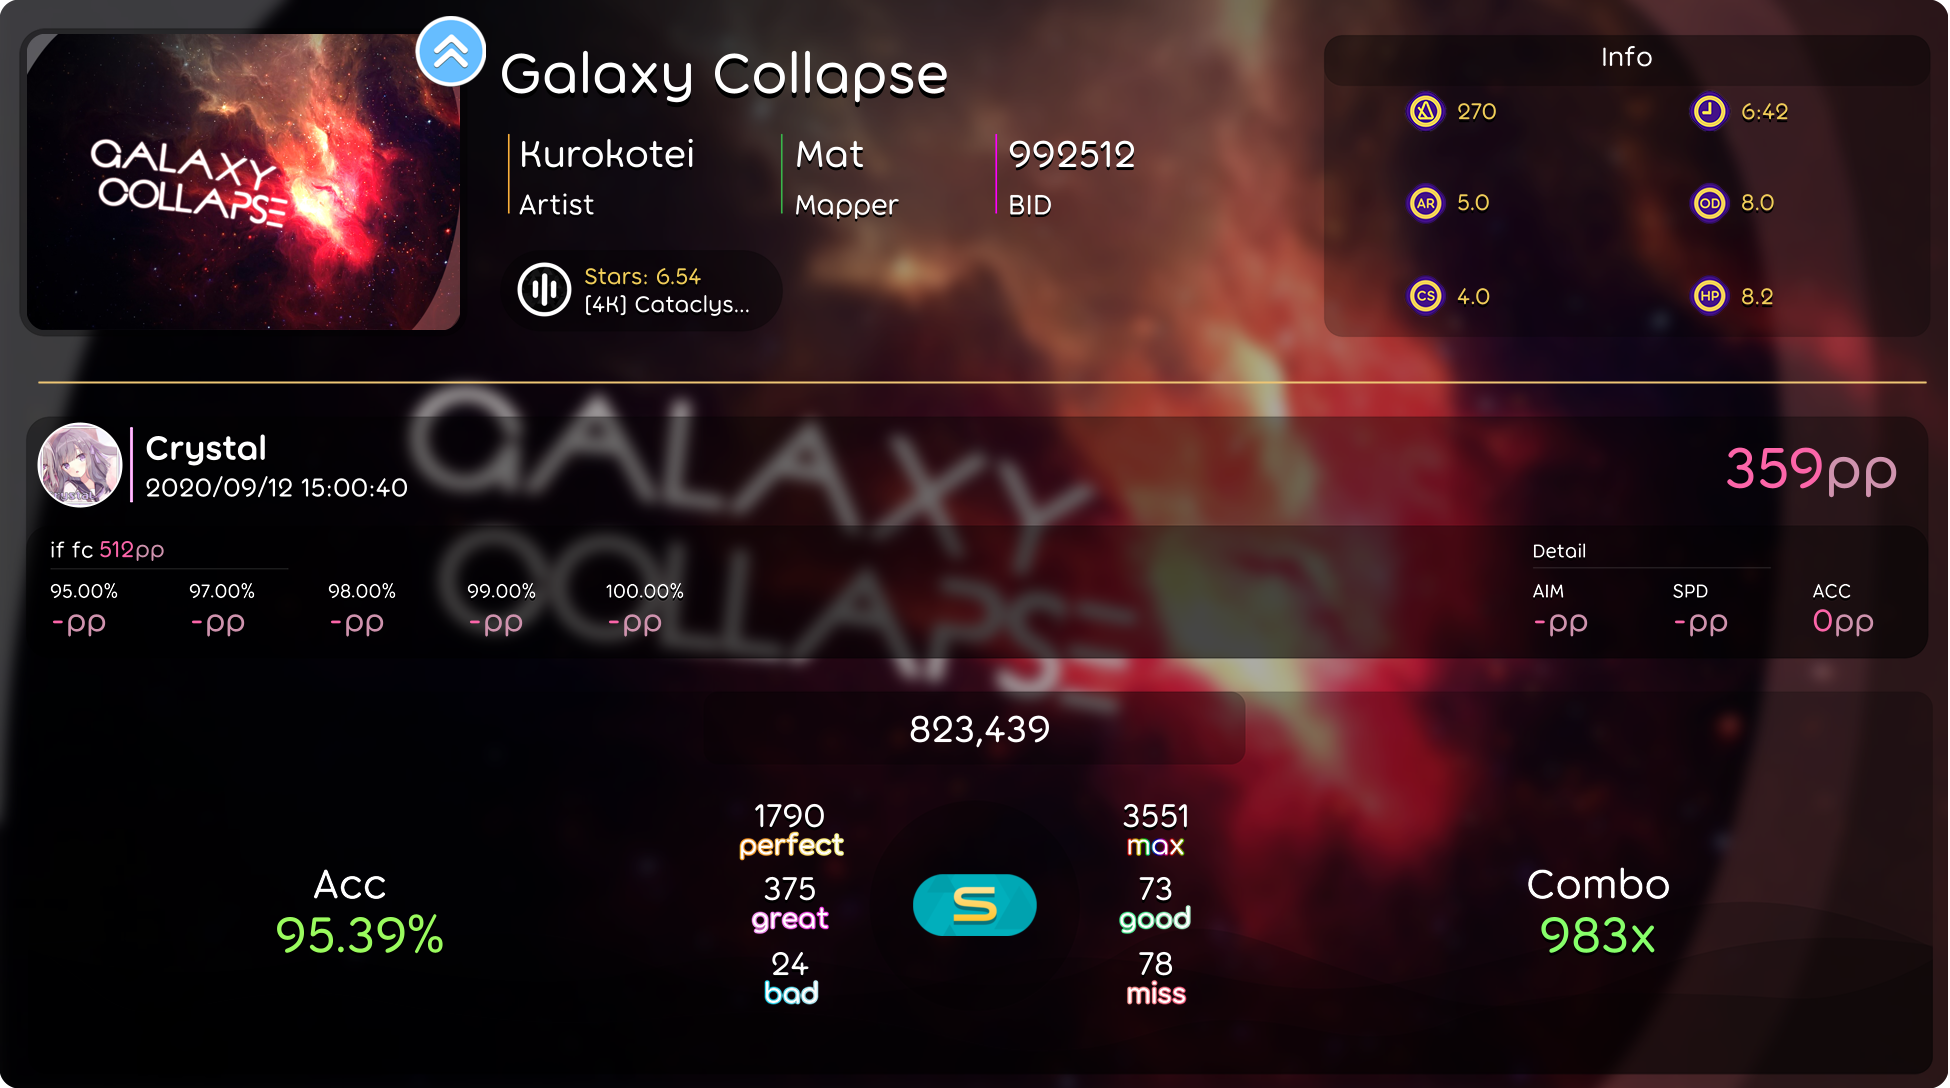
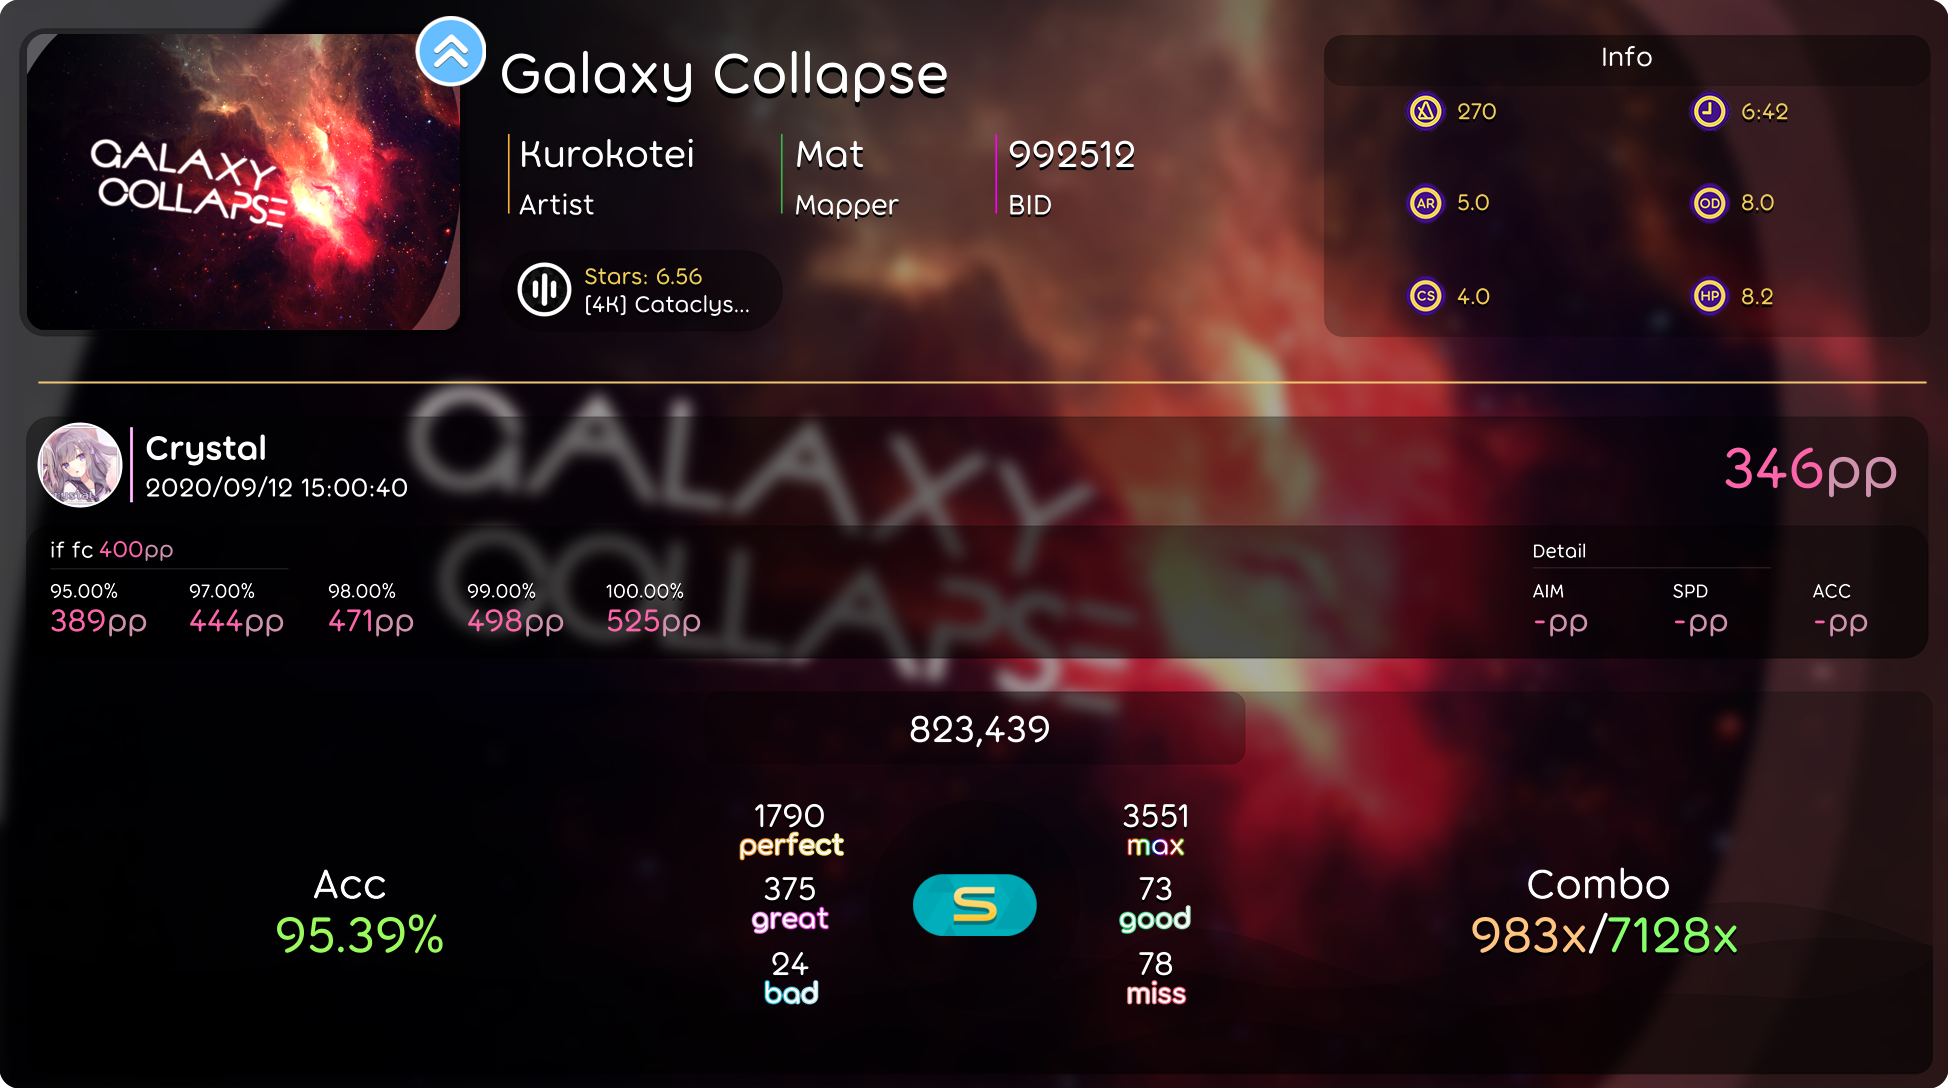
更新.net7，修改部分代码

diff --git a/Tests/OSU.cs b/Tests/OSU.cs
@@ -52,7 +52,7 @@ public class OSU
         var cal = Calculator.New(new Sliceu8(beatmapData, (ulong)f.Length));
         beatmapData.Free();
         var p = ScoreParams.New();
-        p.Mode(Mode.Osu);
+        p.Mode(Mode.Mania);
         p.NKatu(0);
         p.NMisses(6);
         p.N100(29);
@@ -83,7 +83,7 @@ public class OSU
         // Assert.IsTrue(res!.StaminaDifficulty > 0);   // 不知道为啥taiko这里除了great_hit_window都是0
         Assert.True(res!.GreatHitWindow > 0);
         res = API.OSU.GetBeatmapAttributes(3323074, new string[] { "HD", "DT" }, API.OSU.Enums.Mode.Mania).Result;
-        Assert.True(res!.ScoreMultiplier > 0);
+        Assert.True(res!.MaxCombo > 0);
         res = API.OSU.GetBeatmapAttributes(3323074, new string[] { "HD", "DT" }, API.OSU.Enums.Mode.Fruits).Result;
         Assert.True(res!.ApproachRate > 0);
         res = API.OSU.GetBeatmapAttributes(3323074000, new string[] { "HD", "DT" }, API.OSU.Enums.Mode.Fruits).Result;

diff --git a/RosuPP/src/result.rs b/RosuPP/src/result.rs
@@ -81,7 +81,7 @@ impl CalculateResult {
                 mode: Mode::Catch,
                 pp,
                 stars: difficulty.stars,
-                maxCombo: Some((difficulty.n_fruits + difficulty.n_droplets) as u32).into(),
+                maxCombo: Some(difficulty.max_combo() as u32).into(),
                 nFruits: Some(difficulty.n_fruits as u32).into(),
                 nDroplets: Some(difficulty.n_droplets as u32).into(),
                 nTinyDroplets: Some(difficulty.n_tiny_droplets as u32).into(),
@@ -103,6 +103,7 @@ impl CalculateResult {
                 pp,
                 ppDifficulty: Some(pp_difficulty).into(),
                 stars: difficulty.stars,
+                maxCombo: Some(difficulty.max_combo as u32).into(),
                 nCircles: Some(map.n_circles).into(),
                 nSliders: Some(map.n_sliders).into(),
                 ar,

diff --git a/src/image/LegacyDraw.cs b/src/image/LegacyDraw.cs
@@ -896,9 +896,9 @@ namespace KanonBot.LegacyImage
             score.Mutate(x => x.DrawImage(acchue, 1));
             // combo
             var combo = data.scoreInfo.MaxCombo;
-            if (data.scoreInfo.Mode is not OSU.Enums.Mode.Mania)
+            if (ppInfo.maxCombo != null)
             {
-                var maxCombo = ppInfo.maxCombo;
+                var maxCombo = ppInfo.maxCombo.Value;
                 if (maxCombo > 0)
                 {
                     textOptions.Origin = new PointF(1598, 966);

diff --git a/src/drivers/OneBot/Driver/Server.cs b/src/drivers/OneBot/Driver/Server.cs
@@ -160,7 +160,7 @@ public partial class OneBot
                     switch ((string?)m["post_type"])
                     {
                         case "message":
-                            dynamic obj;
+                            Models.CQMessageEventBase obj;
                             try
                             {
                                 // 匹配是否是bot发出，防止进入死循环

diff --git a/src/drivers/OneBot/Driver/Client.cs b/src/drivers/OneBot/Driver/Client.cs
@@ -79,7 +79,7 @@ public partial class OneBot
                     switch ((string?)m["post_type"])
                     {
                         case "message":
-                            dynamic obj;
+                            Models.CQMessageEventBase obj;
                             try
                             {
                                 var msgType = (string?)m["message_type"];

diff --git a/Tests/Misc.cs b/Tests/Misc.cs
@@ -10,7 +10,6 @@ using Newtonsoft.Json.Linq;
 using Msg = KanonBot.Message;
 using Img = KanonBot.Image;
 using SixLabors.ImageSharp;
-using libkook = Kook;
 
 namespace Tests;
 
